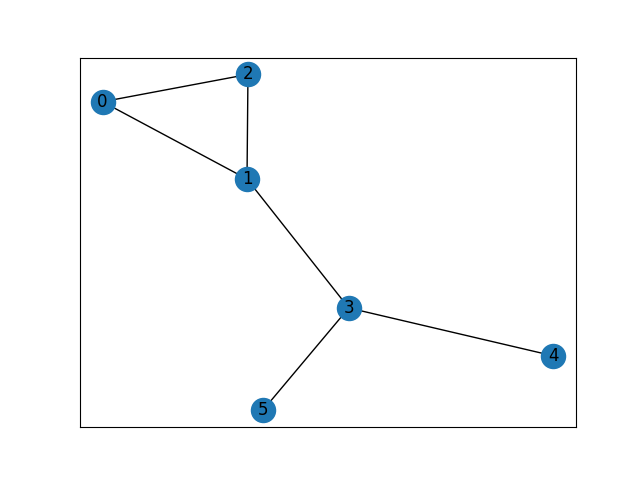
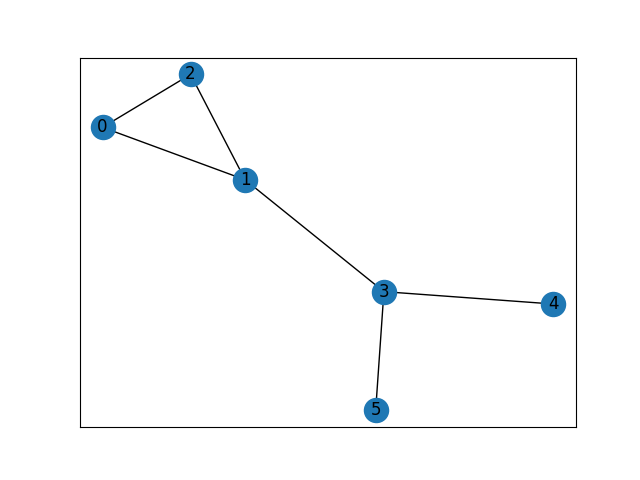
Asistencia y bot actualizada.

diff --git a/07-05-2021 Bots de Telegram/BotMonitoria_Telegram/main.py b/07-05-2021 Bots de Telegram/BotMonitoria_Telegram/main.py
@@ -2,6 +2,8 @@ from telegram.ext import Updater, CommandHandler, CallbackQueryHandler
 from config import TOKEN
 import bot
 from GraphVisualization import GraphVisualization
+from fractions import Fraction as frac
+import numpy as np
 
 
 def main():
@@ -29,12 +31,25 @@ def main():
 
 if __name__ == '__main__':
     main()
+    coeff = [1, -6, 9]
     texto = ""
-    for i in range(0, 5):
-        texto = texto + f"b^{i}"
-        if i != 4:
+    i = 0
+    for raiz in np.roots(coeff):
+        print(f"La parte real de {raiz} es {raiz.real}.")
+        print(f"La parte compleja de {raiz} es {round(raiz.imag,2)}.")
+        texto = texto + f"b_{i+1}*({raiz.real})^n"
+        i += 1
+        if raiz != np.roots(coeff)[-1]:
             texto += " + "
+        print("\n")
+
+    number = 0.25
     print(texto)
+    """
+    fraction = frac(number)
+    print(number.as_integer_ratio())
+    print(f"La respuesta es {frac(number).limit_denominator()}*n.")
+    print(fraction + 1.25)
     grafo = GraphVisualization()
     grafo.addEdge(0, 2)
     grafo.addEdge(1, 2)
@@ -43,3 +58,5 @@ if __name__ == '__main__':
     grafo.addEdge(3, 4)
     grafo.addEdge(1, 0)
     grafo.visualize()
+    
+    """

diff --git a/07-05-2021 Bots de Telegram/BotMonitoria_Telegram/bot.py b/07-05-2021 Bots de Telegram/BotMonitoria_Telegram/bot.py
@@ -90,10 +90,17 @@ def secuencia(update, context):
         for item in secuencia:
             item = int(item)
             update.message.reply_text(item)
+
+        # salida = calculoSecuencia(entrada)
+        # update.message.reply_text(salida)
     except Exception as e:
         logger.info("Ha ocurrido un error en los parámetros.")
         update.message.reply_text("Por favor, digite los parámetros nuevamente.")
 
+
+def calculoSecuencia(entrada):
+    salida = []
+    return salida
 
 def menu(update, context):
     query = update.callback_query

diff --git a/07-05-2021 Bots de Telegram/BotMonitoria_Telegram/GraphVisualization.py b/07-05-2021 Bots de Telegram/BotMonitoria_Telegram/GraphVisualization.py
@@ -29,4 +29,5 @@ class GraphVisualization:
         G.add_edges_from(self.visual)
         nx.draw_networkx(G)
         plt.savefig("src/images/grafo.png")
-        plt.show()
+        #  plt.show()
+
